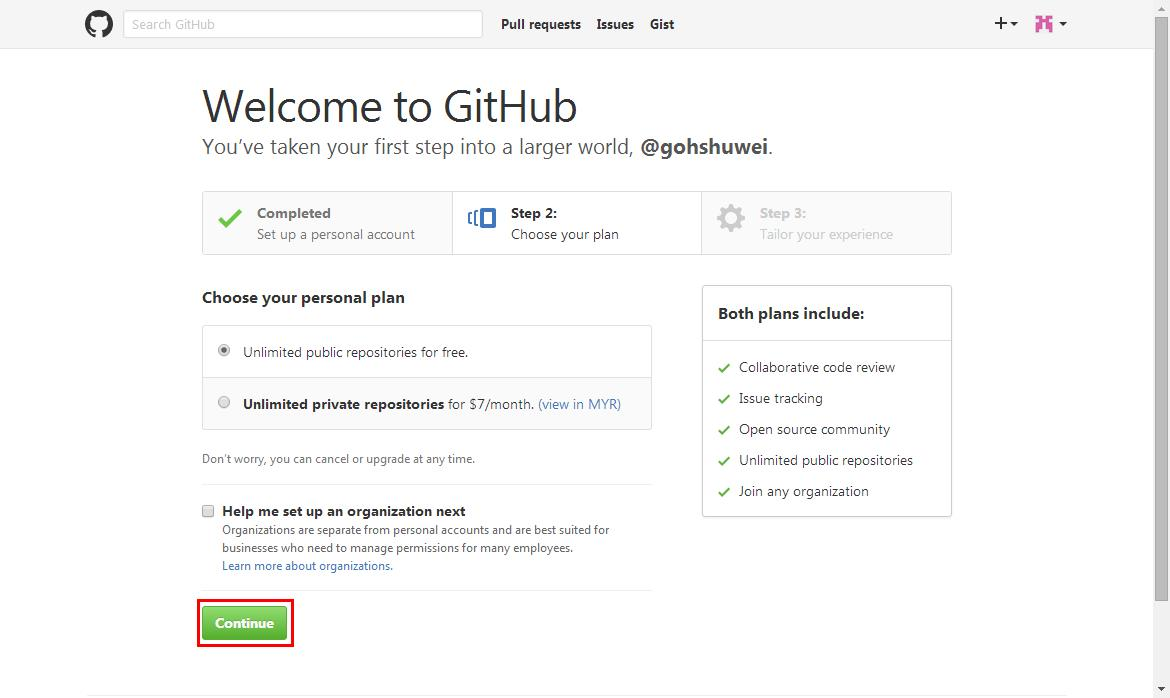
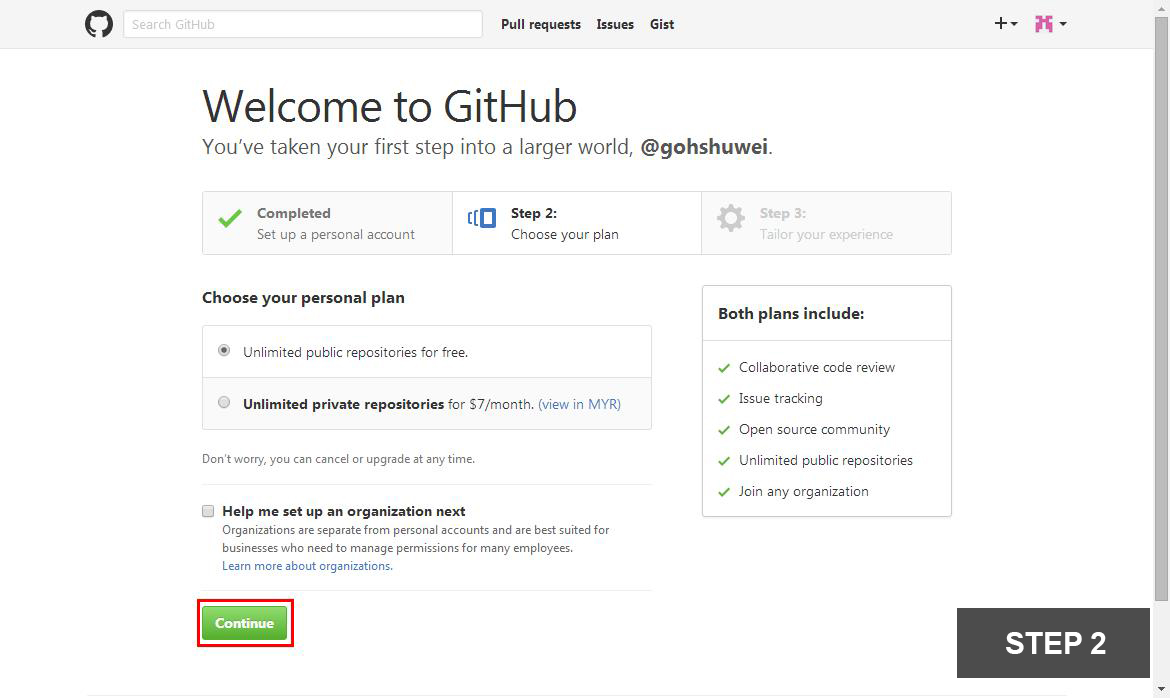
update on sliding github instruction
Former-commit-id: 811dfbb676d0893825e97b1bc5947ed8dc7da126 [formerly b2f675f132d11456b2b3df6060242130d641e8aa]
Former-commit-id: e60fc0d8820ecf2ea843c3d8831fb2e0eb2f1fc8

Changed region(s): [[0.8, 0.8725, 0.9846, 0.9928]]

diff --git a/cn/index-draft.html b/cn/index-draft.html
@@ -123,7 +123,6 @@ redirect_from: /zh-index
   <li>为DL4J平台作出贡献：想要为Deeplearning4j作出贡献的开发人员可先阅读<a href="devguide">开发人员指南</a>。</li>
 	<li>为<a href="https://github.com/deeplearning4j/deeplearning4j/tree/gh-pages" target="_blank">Deeplearning4j.org 网页</a>作出贡献。</li>
 </ul>
-<br /><br />
 <div align="center">
 <div class="code-window" align="center" style="max-width: 900px">
 <div id="carousel1" class="carousel slide">
@@ -145,7 +144,7 @@ redirect_from: /zh-index
   <!-- Wrapper for slides -->
   <div class="carousel-inner" role="listbox">
     <div class="item active">
-      <img src="../img/github-step-1.jpg" alt="signup github">
+		<img src="../img/github-step-1.jpg" alt="signup github">
     </div>
 
     <div class="item">
@@ -185,7 +184,7 @@ redirect_from: /zh-index
     </div>
     
     <div class="item">
-      <img src="../img/github-step-11.jpg" alt="github gh pages">
+      <img src="../img/github-step-11-cn.jpg" alt="github gh pages">
     </div>
 	  
   </div>
